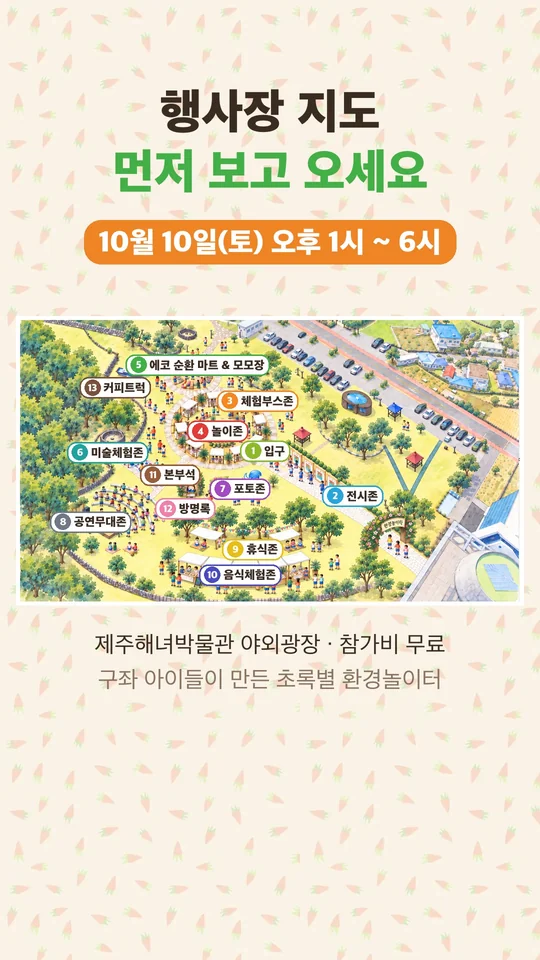
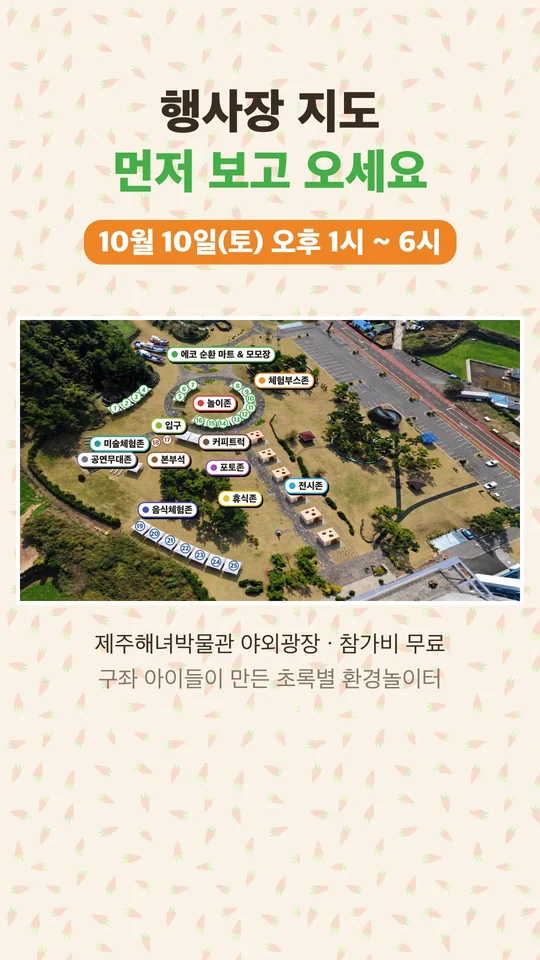
Add files via upload

diff --git a/index.html b/index.html
@@ -732,20 +732,20 @@ dialog.zd .meta span{font-size:16.5px;padding:1px 10px;border-radius:10px 13px 9
     </figure>
     <div class="vids">
       <div class="vwide">
-        <div><div class="yt wide" data-id="zoOiQUeyugg"><img src="img/vid/long_cover.webp" loading="lazy" decoding="async" alt="영상: 초록별 환경놀이터 안내 영상 3분 3초"><span class="play" aria-hidden="true"></span><button type="button" class="ytbtn" aria-label="행사 안내 영상 재생"></button></div>
-          <p class="vcap"><b>3분이면 다 보여요</b> — 지도 · 부스 · 시간표 한 번에</p><button type="button" class="vshare" data-share="video" data-url="https://youtu.be/zoOiQUeyugg" data-title="10월 10일, 구좌에서 만나요 — 초록별 환경놀이터 안내 영상">🔗 이 영상 공유</button></div>
+        <div><div class="yt wide" data-id="AOWCPZw3ojg"><img src="img/vid/long_cover.webp" loading="lazy" decoding="async" alt="영상: 초록별 환경놀이터 안내 영상 3분 3초"><span class="play" aria-hidden="true"></span><button type="button" class="ytbtn" aria-label="행사 안내 영상 재생"></button></div>
+          <p class="vcap"><b>3분이면 다 보여요</b> — 지도 · 부스 · 시간표 한 번에</p><button type="button" class="vshare" data-share="video" data-url="https://youtu.be/AOWCPZw3ojg" data-title="10월 10일, 구좌에서 만나요 — 초록별 환경놀이터 안내 영상">🔗 이 영상 공유</button></div>
         <div><div class="yt wide" data-id="SXNGGDr3BF8"><img src="https://i.ytimg.com/vi/SXNGGDr3BF8/maxresdefault.jpg" onerror="this.onerror=null;this.src='https://i.ytimg.com/vi/SXNGGDr3BF8/hqdefault.jpg'" alt="영상: 아이들이 부르는 밭길 따라 돌담 따라 준비 스케치"><span class="play" aria-hidden="true"></span><button type="button" class="ytbtn" aria-label="준비 스케치 영상 재생"></button></div>
           <p class="vcap">우리 동네 노래 「밭길 따라 돌담 따라」와 함께한 여름</p><button type="button" class="vshare" data-share="video" data-url="https://youtu.be/SXNGGDr3BF8" data-title="구좌 아이들이 만든 초록별 환경놀이터 준비 스케치">🔗 이 영상 공유</button></div>
       </div>
       <div class="vshorts">
-        <div><div class="yt tall" data-id="idBJbWQV554"><img src="img/vid/s1_cover.webp" loading="lazy" decoding="async" alt="쇼츠: 행사장 지도 먼저 보고 오세요"><span class="play" aria-hidden="true"></span><button type="button" class="ytbtn" aria-label="행사장 지도 먼저 보고 오세요 재생"></button></div>
-          <p class="vcap">행사장 지도, 25초면 다 보여요</p><button type="button" class="vshare" data-share="video" data-url="https://youtube.com/shorts/idBJbWQV554" data-title="행사장 지도 먼저 보고 오세요">🔗 이 영상 공유</button></div>
+        <div><div class="yt tall" data-id="MwfnBmdhxTk"><img src="img/vid/s1_cover.webp" loading="lazy" decoding="async" alt="쇼츠: 행사장 지도 먼저 보고 오세요"><span class="play" aria-hidden="true"></span><button type="button" class="ytbtn" aria-label="행사장 지도 먼저 보고 오세요 재생"></button></div>
+          <p class="vcap">행사장 지도, 25초면 다 보여요</p><button type="button" class="vshare" data-share="video" data-url="https://youtube.com/shorts/MwfnBmdhxTk" data-title="행사장 지도 먼저 보고 오세요">🔗 이 영상 공유</button></div>
         <div><div class="yt tall" data-id="9NdG_tY7APk"><img src="img/vid/s2_cover.webp" loading="lazy" decoding="async" alt="쇼츠: 이거, 다 아이들이 만들었어요"><span class="play" aria-hidden="true"></span><button type="button" class="ytbtn" aria-label="이거, 다 아이들이 만들었어요 재생"></button></div>
           <p class="vcap">이거, 다 아이들이 만들었어요</p><button type="button" class="vshare" data-share="video" data-url="https://youtube.com/shorts/9NdG_tY7APk" data-title="이거, 다 아이들이 만들었어요">🔗 이 영상 공유</button></div>
-        <div><div class="yt tall" data-id="F4oGid_cLtQ"><img src="img/vid/s3_cover.webp" loading="lazy" decoding="async" alt="쇼츠: 환경 체험부스 열여섯 곳"><span class="play" aria-hidden="true"></span><button type="button" class="ytbtn" aria-label="환경 체험부스 열여섯 곳 재생"></button></div>
-          <p class="vcap">환경 체험부스 열여섯 곳, 뭘 만드냐면요</p><button type="button" class="vshare" data-share="video" data-url="https://youtube.com/shorts/F4oGid_cLtQ" data-title="환경 체험부스 열여섯 곳">🔗 이 영상 공유</button></div>
-        <div><div class="yt tall" data-id="kwrJIyQEMZw"><img src="img/vid/s4_cover.webp" loading="lazy" decoding="async" alt="쇼츠: 음식 체험부스 여덟 곳"><span class="play" aria-hidden="true"></span><button type="button" class="ytbtn" aria-label="음식 체험부스 여덟 곳 재생"></button></div>
-          <p class="vcap">자전거 타고 주스 만들기 · 음식 체험 여덟 곳 전부 무료</p><button type="button" class="vshare" data-share="video" data-url="https://youtube.com/shorts/kwrJIyQEMZw" data-title="음식 체험부스 여덟 곳">🔗 이 영상 공유</button></div>
+        <div><div class="yt tall" data-id="34vu_JOi3YU"><img src="img/vid/s3_cover.webp" loading="lazy" decoding="async" alt="쇼츠: 환경 체험부스 열여섯 곳"><span class="play" aria-hidden="true"></span><button type="button" class="ytbtn" aria-label="환경 체험부스 열여섯 곳 재생"></button></div>
+          <p class="vcap">환경 체험부스 열여섯 곳, 뭘 만드냐면요</p><button type="button" class="vshare" data-share="video" data-url="https://youtube.com/shorts/34vu_JOi3YU" data-title="환경 체험부스 열여섯 곳">🔗 이 영상 공유</button></div>
+        <div><div class="yt tall" data-id="oPHct0rzfA0"><img src="img/vid/s4_cover.webp" loading="lazy" decoding="async" alt="쇼츠: 음식 체험부스 여덟 곳"><span class="play" aria-hidden="true"></span><button type="button" class="ytbtn" aria-label="음식 체험부스 여덟 곳 재생"></button></div>
+          <p class="vcap">자전거 타고 주스 만들기 · 음식 체험 여덟 곳 전부 무료</p><button type="button" class="vshare" data-share="video" data-url="https://youtube.com/shorts/oPHct0rzfA0" data-title="음식 체험부스 여덟 곳">🔗 이 영상 공유</button></div>
         <div><div class="yt tall" data-id="5Sv0ph42FjE"><img src="https://i.ytimg.com/vi/5Sv0ph42FjE/oardefault.jpg" onerror="this.onerror=null;this.src='https://i.ytimg.com/vi/5Sv0ph42FjE/hqdefault.jpg'" alt="쇼츠: 버려진 골판지가 포토존이 되기까지"><span class="play" aria-hidden="true"></span><button type="button" class="ytbtn" aria-label="버려진 골판지가 포토존이 되기까지 재생"></button></div>
           <p class="vcap">버려진 골판지가 포토존이 되기까지</p><button type="button" class="vshare" data-share="video" data-url="https://youtube.com/shorts/5Sv0ph42FjE" data-title="버려진 골판지가 포토존이 되기까지">🔗 이 영상 공유</button></div>
       </div>
